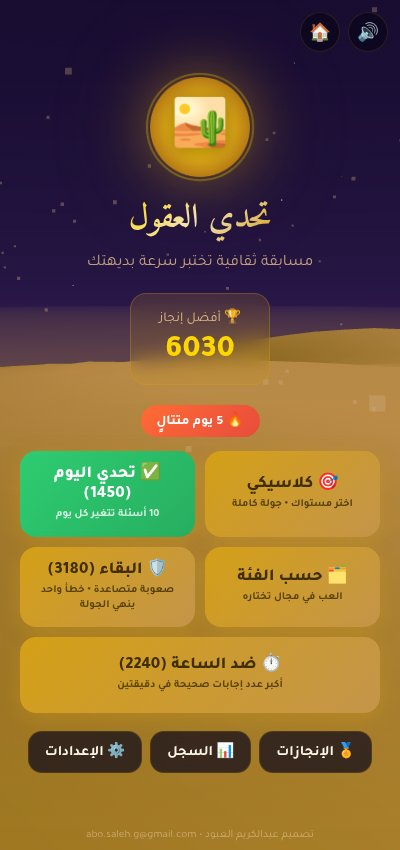
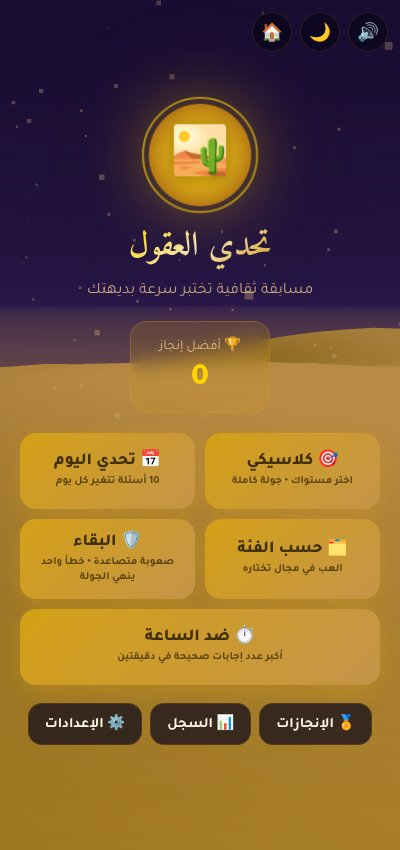
Move the theme switch to the top bar, and fix the scroll trap behind it
The theme radios were unreachable on a phone: the reporter could see
the card clipped at the top of the settings screen and could not scroll
to it however hard they tried. The placement was only half the story.

.game-container centred its content with justify-content: center while
also being the scroll container. When a screen is taller than the
viewport, centring pushes the overflow off BOTH ends, and scrollTop
cannot go below zero — so the top of that content is not merely hidden,
it is unreachable. Measured on the settings screen: 195px lost at
320x568, 99px at 412x720, and it would have grown with every setting
added. Centring now comes from the child's auto margins, which centre
when there is room and collapse to zero when there is not. Verified:
content still centres exactly on viewports where it fits, and every
group is reachable on ones where it does not.

The button itself is what was asked for: 🌙/☀ in the top bar beside
sound and home, same 40px circle, one tap instead of menu → settings →
scroll. It shows the theme you are in, the way the mute button does,
with the aria-label saying what pressing it will do. T toggles it and
is rebindable like the others. The theme card and its radios are gone
from settings, along with the now-dead .theme-option rules.

Also point the theme-color meta at the active theme, so the mobile
browser's own chrome stops sitting dark above a light page — visible in
the report's screenshot.
[…]

diff --git a/js/game.js b/js/game.js
@@ -68,6 +68,7 @@ const DEFAULT_KEYS = {
   next:  'Enter',
   fifty: 'KeyH',
   mute:  'KeyM',
+  theme: 'KeyT',
   pause: 'KeyP',
   exit:  'Escape'
 };
@@ -75,6 +76,7 @@ const KEY_ACTIONS = [
   { id: 'next',  label: 'الانتقال للسؤال التالي' },
   { id: 'fifty', label: 'استخدام 50:50' },
   { id: 'mute',  label: 'كتم/تشغيل الصوت' },
+  { id: 'theme', label: 'تبديل السمة' },
   { id: 'pause', label: 'إيقاف مؤقت' },
   { id: 'exit',  label: 'العودة للقائمة' }
 ];
@@ -311,6 +313,26 @@ function applyTheme(theme) {
   document.body.dataset.theme = theme;
   Storage.setTheme(theme);
   if (typeof Scene !== 'undefined' && Scene.setTheme) Scene.setTheme(theme);
+
+  const night = theme === 'night';
+  const btn = $('btnTheme');
+  if (btn) {
+    // Shows the theme you are in, like the mute button does — the label says
+    // what pressing it will do.
+    btn.textContent = night ? '🌙' : '☀';
+    const to = night ? 'النهارية' : 'الليلية';
+    btn.setAttribute('aria-label', `السمة ${night ? 'الليلية' : 'النهارية'} — التبديل إلى السمة ${to}`);
+    btn.title = `التبديل إلى السمة ${to}`;
+  }
+  // Keeps the mobile browser's own chrome in step with the theme instead of
+  // leaving a dark address bar sitting above a light page.
+  const meta = document.querySelector('meta[name="theme-color"]');
+  if (meta) meta.setAttribute('content', night ? '#1a0a2e' : '#FFF8E7');
+}
+
+function toggleTheme() {
+  audio.play('click');
+  applyTheme(Storage.getTheme() === 'night' ? 'day' : 'night');
 }
 
 function applyReducedMotion(on) {
@@ -1158,19 +1180,11 @@ function showHistory() {
 // ============================================================
 function showSettings() {
   audio.play('click');
-  document.querySelectorAll('input[name="theme"]').forEach(r => {
-    r.checked = (r.value === Storage.getTheme());
-  });
   $('settingMute').checked = Storage.isMuted();
   $('settingMotion').checked = Storage.isReducedMotion();
   applyVolume(Storage.getVolume());
   renderKeybinds();
   showScreen('settingsScreen');
-}
-
-function onThemeChange(e) {
-  applyTheme(e.target.value);
-  audio.play('click');
 }
 
 function resetAllData() {
@@ -1360,6 +1374,7 @@ function onKeyDown(e) {
   const screen = gameState.screen;
 
   if (code === keybinds.mute) { toggleMute(); return; }
+  if (code === keybinds.theme) { toggleTheme(); return; }
 
   if (code === keybinds.pause && (inRound() || gameState.phase === PHASE.PAUSED)) {
     e.preventDefault();
@@ -1478,9 +1493,6 @@ async function init() {
   applyVolume(Storage.getVolume());
 
   // Settings inputs
-  document.querySelectorAll('input[name="theme"]').forEach(r => {
-    r.addEventListener('change', onThemeChange);
-  });
   $('settingMute')?.addEventListener('change', (e) => applyMute(e.target.checked));
   $('settingMotion')?.addEventListener('change', (e) => applyReducedMotion(e.target.checked));
   $('settingVolume')?.addEventListener('input', (e) => applyVolume(Number(e.target.value)));

diff --git a/styles.css b/styles.css
@@ -110,7 +110,12 @@ body {
   display: flex;
   flex-direction: column;
   align-items: center;
-  justify-content: center;
+  /* NOT justify-content: center. Centring a flex container that scrolls pushes
+     any overflow off BOTH ends, and scrollTop cannot go below zero — so the top
+     of a screen taller than the viewport became permanently unreachable (up to
+     195px of the settings screen). The child's auto margins centre it when
+     there is room and collapse to zero when there is not. */
+  justify-content: flex-start;
   /* viewport-fit=cover lets the page run under the notch and home indicator,
      so every fixed edge needs the safe-area inset added to its padding. */
   padding: calc(20px + env(safe-area-inset-top)) calc(20px + env(safe-area-inset-right))
@@ -163,7 +168,7 @@ body[data-screen="gameScreen"] #btnPause { display: flex; }
   max-width: 600px;
   animation: fadeSlideUp 0.5s cubic-bezier(0.16, 1, 0.3, 1);
 }
-.screen.active { display: flex; }
+.screen.active { display: flex; margin-block: auto; }
 .screen:focus { outline: none; }
 
 @keyframes fadeSlideUp {
@@ -965,28 +970,6 @@ body[data-theme="day"] .btn-share { background: rgba(0,0,0,0.06); border-color: 
   justify-content: space-between;
   margin-bottom: 8px;
 }
-.theme-options {
-  display: flex;
-  gap: 10px;
-  flex-wrap: wrap;
-}
-.theme-option {
-  display: flex;
-  align-items: center;
-  gap: 6px;
-  cursor: pointer;
-  padding: 8px 14px;
-  border-radius: 10px;
-  background: rgba(255,255,255,0.05);
-  border: 1px solid transparent;
-  transition: all 0.2s;
-}
-body[data-theme="day"] .theme-option { background: rgba(0,0,0,0.04); }
-.theme-option:has(input:checked) {
-  border-color: var(--gold);
-  background: rgba(212,160,23,0.15);
-}
-.theme-option input { cursor: pointer; }
 .toggle-switch {
   display: inline-block;
   width: 50px;

diff --git a/index.html b/index.html
@@ -16,9 +16,10 @@
 <canvas id="three-canvas" aria-hidden="true"></canvas>
 <div class="overlay" aria-hidden="true"></div>
 
-<!-- Top bar (mute + back) -->
+<!-- Top bar: always-reachable controls (sound, theme, pause, home) -->
 <div class="top-bar">
   <button class="icon-btn" id="btnMute" onclick="toggleMute()" aria-label="كتم الصوت" aria-pressed="false" title="كتم/تشغيل الصوت">🔊</button>
+  <button class="icon-btn" id="btnTheme" onclick="toggleTheme()" aria-label="تبديل السمة" title="تبديل السمة">🌙</button>
   <button class="icon-btn" id="btnPause" onclick="togglePause()" aria-label="إيقاف مؤقت" title="إيقاف مؤقت">⏸</button>
   <button class="icon-btn" id="btnBack" onclick="requestExit()" aria-label="العودة للقائمة" title="القائمة الرئيسية">🏠</button>
 </div>
@@ -216,19 +217,6 @@
   <div class="screen" id="settingsScreen" role="region" aria-label="الإعدادات">
     <h2 class="section-title">⚙ الإعدادات</h2>
     <div class="settings-list">
-      <div class="setting-group">
-        <div class="setting-label">السمة</div>
-        <div class="theme-options">
-          <label class="theme-option">
-            <input type="radio" name="theme" value="night" checked>
-            <span>🌙 ليلي</span>
-          </label>
-          <label class="theme-option">
-            <input type="radio" name="theme" value="day">
-            <span>☀ نهاري</span>
-          </label>
-        </div>
-      </div>
       <div class="setting-group">
         <div class="setting-row">
           <label for="settingMute" class="setting-label" style="margin: 0; cursor: pointer;">كتم الصوت</label>

diff --git a/sw.js b/sw.js
@@ -3,7 +3,7 @@
 // ============================================================
 // CACHE_NAME must be bumped on every release that changes any cached asset,
 // and ASSETS must list every deployable file (checked by scripts/validate-sw.mjs)
-const CACHE_NAME = 'mind-challenge-v10';
+const CACHE_NAME = 'mind-challenge-v11';
 const ASSETS = [
   './',
   './index.html',

diff --git a/README.md b/README.md
@@ -10,7 +10,7 @@
 
 | 🌙 ليلي صحراوي | ☀ نهاري ساطع |
 |:---:|:---:|
-| <img src="docs/screenshots/menu-night.jpg" alt="القائمة الرئيسية بالسمة الليلية: خلفية صحراء ونجوم، أفضل إنجاز 6030، عداد 5 أيام متتالية، وأزرار الأوضاع الخمسة" width="330"> | <img src="docs/screenshots/menu-day.jpg" alt="القائمة الرئيسية بالسمة النهارية: سماء فاتحة وكثبان رملية، بنفس الأوضاع والإحصائيات" width="330"> |
+| <img src="docs/screenshots/menu-night.jpg" alt="القائمة الرئيسية بالسمة الليلية: خلفية صحراء ونجوم، أزرار الصوت والسمة والقائمة أعلى الشاشة، وأزرار الأوضاع الخمسة" width="330"> | <img src="docs/screenshots/menu-day.jpg" alt="القائمة الرئيسية بالسمة النهارية: سماء فاتحة وكثبان رملية، بنفس الأوضاع والإحصائيات" width="330"> |
 
 ### اللعب
 
@@ -35,9 +35,9 @@
 | <img src="docs/screenshots/achievements.jpg" alt="شاشة الإنجازات: 15 شارة، المفتوحة منها ملوّنة والمقفلة بقفل" width="330"> | <img src="docs/screenshots/history.jpg" alt="سجل آخر الجولات: النقاط والوضع والصعوبة وعدد الإجابات الصحيحة وأطول سلسلة لكل جولة" width="330"> |
 
 <p align="center">
-  <img src="docs/screenshots/settings.jpg" alt="الإعدادات: اختيار السمة، كتم الصوت ومستواه، مفتاح تقليل الحركة والوميض، وقائمة اختصارات لوحة المفاتيح القابلة لإعادة التعيين" width="330">
+  <img src="docs/screenshots/settings.jpg" alt="الإعدادات: كتم الصوت ومستواه، مفتاح تقليل الحركة والوميض، وقائمة اختصارات لوحة المفاتيح القابلة لإعادة التعيين" width="330">
 </p>
-<p align="center"><sub>الإعدادات: السمة، مستوى الصوت، تقليل الحركة، وإعادة تعيين الاختصارات</sub></p>
+<p align="center"><sub>الإعدادات: مستوى الصوت، تقليل الحركة، وإعادة تعيين الاختصارات — والسمة صارت بزر دائم أعلى الشاشة</sub></p>
 
 ## الميزات
 
@@ -54,7 +54,7 @@
 - **سجل آخر 10 جولات** مع الإحصائيات
 - **رقم قياسي مستقل لكل وضع ومستوى** — السهل والمتوسط يتنافسان على لوحتيهما
 - **إيقاف مؤقت** يوقف العدّاد (ويعمل تلقائياً عند مغادرة التطبيق)
-- **سمتان**: ليلي صحراوي / نهاري ساطع
+- **سمتان**: ليلي صحراوي / نهاري ساطع، بزر دائم 🌙/☀ في أعلى الشاشة
 - **دعم لوحة المفاتيح** مع إمكانية إعادة تعيين الاختصارات
 - **يعمل بدون إنترنت** كـ PWA قابل للتثبيت
 - **مصمم بالكامل بالعربية** مع دعم RTL ومراعاة الوصولية
@@ -68,6 +68,8 @@
 - **إعادة تعيين اختصارات لوحة المفاتيح** (عدا 1-4 المحجوزة لاختيار الإجابة)
 - **إدارة التركيز** عند تبديل الشاشات، مع حلقة تركيز واضحة على كل عنصر تفاعلي
 - **مناطق آمنة** (`env(safe-area-inset-*)`) و`100dvh` لشاشات الجوال ذات النتوء
+- **كل شاشة قابلة للتمرير بالكامل** مهما صغر الجهاز — لا محتوى عالق خارج نطاق التمرير
+- **تبديل السمة بضغطة واحدة** من زر دائم بدل التنقل داخل الإعدادات، ولون شريط عنوان المتصفح يتبع السمة
 
 ## التشغيل
 
@@ -128,6 +130,7 @@ Challenges/
 | `1` - `4` | اختيار الإجابة (محجوزة) |
 | `Enter` / `Space` | الانتقال للسؤال التالي بعد الإجابة |
 | `M` | كتم/تشغيل الصوت |
+| `T` | تبديل السمة (ليلي/نهاري) |
 | `H` | استخدام وسيلة 50:50 |
 | `P` | إيقاف مؤقت |
 | `Esc` | العودة للقائمة الرئيسية |
